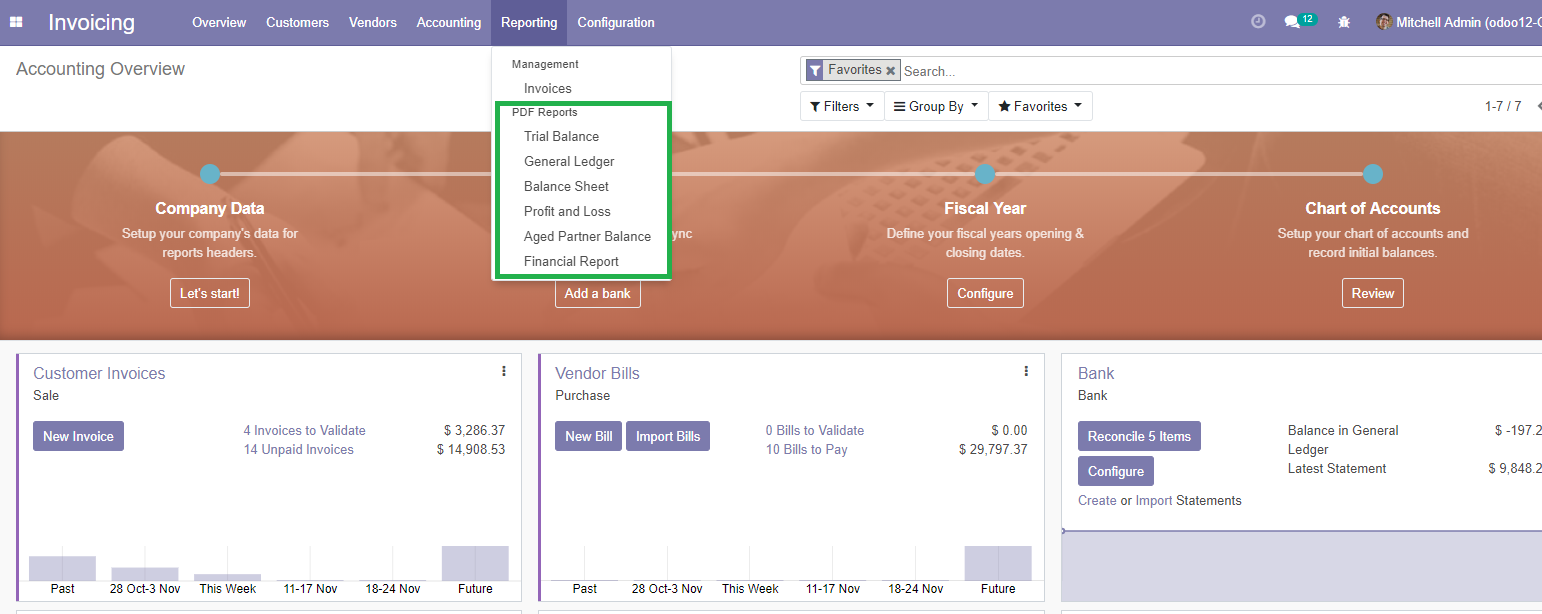
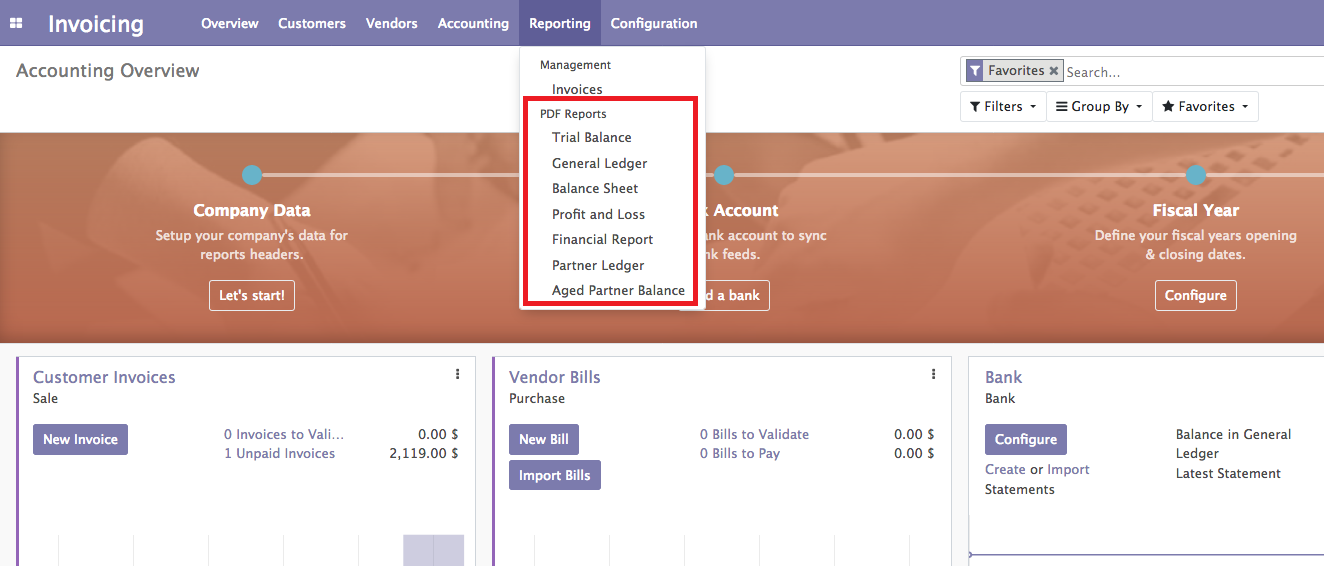
[OD12-731] Partner Ledger Report

diff --git a/skit_addons/skit_account_reports/static/description/index.html b/skit_addons/skit_account_reports/static/description/index.html
@@ -2,7 +2,7 @@
     <div class="oe_row oe_spaced">
         <h2 class="oe_slogan" style="color:#875A7B">Financial Reports in PDF</h2>
         <div style="margin-left:50px;margin-right:50px">
-        	<h3 class="oe_slogan" style="font-size: 1.3em; line-height: 2em; opacity:unset !important">This module helps to generate Financial reports such as Balance Sheet, Profit and Loss, Trial Balance, General Ledger and Aged Partner Balance in PDF format.</h3>
+        	<h3 class="oe_slogan" style="font-size: 1.3em; line-height: 2em; opacity:unset !important">This module helps to generate Financial reports such as Balance Sheet, Profit and Loss, Trial Balance, General Ledger, Partner Ledger and Aged Partner Balance in PDF format.</h3>
         </div>
     </div>
 </section>
@@ -73,6 +73,15 @@
         <div class="text-center">
             <img class="img-border img-responsive thumbnail oe_picture oe_gif" src="account_reports_10.png" /><br>
             <img class="img-border img-responsive thumbnail  oe_gif" style="border:1px solid grey" src="account_reports_11.png" />
+        </div>
+    </div>
+</section>
+<section class="oe_container">
+    <h2 class="oe_slogan" style="color:#875A7B">Partner Ledger</h2>
+    <div class="oe_row">    	
+        <div class="text-center">
+            <img class="img-border img-responsive thumbnail oe_picture oe_gif" src="account_reports_14.png" /><br>
+            <img class="img-border img-responsive thumbnail  oe_gif" style="border:1px solid grey" src="account_reports_15.png" />
         </div>
     </div>
 </section>

diff --git a/skit_addons/skit_account_reports/report/account_partner_ledger.py b/skit_addons/skit_account_reports/report/account_partner_ledger.py
@@ -1,0 +1,121 @@
+# -*- coding: utf-8 -*-
+
+from datetime import datetime
+import time
+from odoo import api, models, _
+from odoo.exceptions import UserError
+
+
+class ReportPartnerLedger(models.AbstractModel):
+    _name = 'report.skit_account_reports.report_partnerledger'
+
+    def _lines(self, data, partner):
+        full_account = []
+        currency = self.env['res.currency']
+        query_get_data = self.env['account.move.line'].with_context(data['form'].get('used_context', {}))._query_get()
+        reconcile_clause = "" if data['form']['reconciled'] else ' AND "account_move_line".reconciled = false '
+        params = [partner.id, tuple(data['computed']['move_state']), tuple(data['computed']['account_ids'])] + query_get_data[2]
+        query = """
+            SELECT "account_move_line".id, "account_move_line".date, j.code, acc.code as a_code, acc.name as a_name, "account_move_line".ref, m.name as move_name, "account_move_line".name, "account_move_line".debit, "account_move_line".credit, "account_move_line".amount_currency,"account_move_line".currency_id, c.symbol AS currency_code
+            FROM """ + query_get_data[0] + """
+            LEFT JOIN account_journal j ON ("account_move_line".journal_id = j.id)
+            LEFT JOIN account_account acc ON ("account_move_line".account_id = acc.id)
+            LEFT JOIN res_currency c ON ("account_move_line".currency_id=c.id)
+            LEFT JOIN account_move m ON (m.id="account_move_line".move_id)
+            WHERE "account_move_line".partner_id = %s
+                AND m.state IN %s
+                AND "account_move_line".account_id IN %s AND """ + query_get_data[1] + reconcile_clause + """
+                ORDER BY "account_move_line".date"""
+        self.env.cr.execute(query, tuple(params))
+        res = self.env.cr.dictfetchall()
+        sum = 0.0
+        lang_code = self.env.context.get('lang') or 'en_US'
+        lang = self.env['res.lang']
+        lang_id = lang._lang_get(lang_code)
+        date_format = lang_id.date_format
+        for r in res:
+            r['date'] = r['date'].strftime(date_format)
+            r['displayed_name'] = '-'.join(
+                r[field_name] for field_name in ('move_name', 'ref', 'name')
+                if r[field_name] not in (None, '', '/')
+            )
+            sum += r['debit'] - r['credit']
+            r['progress'] = sum
+            r['currency_id'] = currency.browse(r.get('currency_id'))
+            full_account.append(r)
+        return full_account
+
+    def _sum_partner(self, data, partner, field):
+        if field not in ['debit', 'credit', 'debit - credit']:
+            return
+        result = 0.0
+        query_get_data = self.env['account.move.line'].with_context(data['form'].get('used_context', {}))._query_get()
+        reconcile_clause = "" if data['form']['reconciled'] else ' AND "account_move_line".reconciled = false '
+
+        params = [partner.id, tuple(data['computed']['move_state']), tuple(data['computed']['account_ids'])] + query_get_data[2]
+        query = """SELECT sum(""" + field + """)
+                FROM """ + query_get_data[0] + """, account_move AS m
+                WHERE "account_move_line".partner_id = %s
+                    AND m.id = "account_move_line".move_id
+                    AND m.state IN %s
+                    AND account_id IN %s
+                    AND """ + query_get_data[1] + reconcile_clause
+        self.env.cr.execute(query, tuple(params))
+
+        contemp = self.env.cr.fetchone()
+        if contemp is not None:
+            result = contemp[0] or 0.0
+        return result
+
+    @api.model
+    def _get_report_values(self, docids, data=None):
+        if not data.get('form'):
+            raise UserError(_("Form content is missing, this report cannot be printed."))
+
+        data['computed'] = {}
+
+        obj_partner = self.env['res.partner']
+        query_get_data = self.env['account.move.line'].with_context(data['form'].get('used_context', {}))._query_get()
+        data['computed']['move_state'] = ['draft', 'posted']
+        if data['form'].get('target_move', 'all') == 'posted':
+            data['computed']['move_state'] = ['posted']
+        result_selection = data['form'].get('result_selection', 'customer')
+        if result_selection == 'supplier':
+            data['computed']['ACCOUNT_TYPE'] = ['payable']
+        elif result_selection == 'customer':
+            data['computed']['ACCOUNT_TYPE'] = ['receivable']
+        else:
+            data['computed']['ACCOUNT_TYPE'] = ['payable', 'receivable']
+
+        self.env.cr.execute("""
+            SELECT a.id
+            FROM account_account a
+            WHERE a.internal_type IN %s
+            AND NOT a.deprecated""", (tuple(data['computed']['ACCOUNT_TYPE']),))
+        data['computed']['account_ids'] = [a for (a,) in self.env.cr.fetchall()]
+        params = [tuple(data['computed']['move_state']), tuple(data['computed']['account_ids'])] + query_get_data[2]
+        reconcile_clause = "" if data['form']['reconciled'] else ' AND "account_move_line".reconciled = false '
+        query = """
+            SELECT DISTINCT "account_move_line".partner_id
+            FROM """ + query_get_data[0] + """, account_account AS account, account_move AS am
+            WHERE "account_move_line".partner_id IS NOT NULL
+                AND "account_move_line".account_id = account.id
+                AND am.id = "account_move_line".move_id
+                AND am.state IN %s
+                AND "account_move_line".account_id IN %s
+                AND NOT account.deprecated
+                AND """ + query_get_data[1] + reconcile_clause
+        self.env.cr.execute(query, tuple(params))
+        partner_ids = [res['partner_id'] for res in self.env.cr.dictfetchall()]
+        partners = obj_partner.browse(partner_ids)
+        partners = sorted(partners, key=lambda x: (x.ref, x.name))
+
+        return {
+            'doc_ids': partner_ids,
+            'doc_model': self.env['res.partner'],
+            'data': data,
+            'docs': partners,
+            'time': time,
+            'lines': self._lines,
+            'sum_partner': self._sum_partner,
+        }

diff --git a/skit_addons/skit_account_reports/__manifest__.py b/skit_addons/skit_account_reports/__manifest__.py
@@ -3,14 +3,14 @@
 {
     'name': 'Odoo12 Financial Reports in PDF',
     'version': '1.1',
-    'summary': 'This module helps to generate Financial reports Balance Sheet, Profit and Loss, Trial Balance, General Ledger and Aged Partner Balance in PDF format',
+    'summary': 'This module helps to generate Financial reports Balance Sheet, Profit and Loss, Trial Balance, General Ledger, Partner Ledger and Aged Partner Balance in PDF format',
     'author': 'Srikesh Infotech',
     'license': "AGPL-3",
     'website': 'http://www.srikeshinfotech.com',
     'price': 75,
     'currency': 'EUR',
     'description': """
-        This module helps to generate Financial reports Balance Sheet, Profit and Loss, Trial Balance, General Ledger and Aged Partner Balance in PDF format
+        This module helps to generate Financial reports Balance Sheet, Profit and Loss, Trial Balance, General Ledger, Partner Ledger and Aged Partner Balance in PDF format
         """,
     'images': ['images/main_screenshot.png'],
     'category': "Invoicing Management",
@@ -26,7 +26,8 @@
         'views/report_financial.xml',
         'wizard/account_report_aged_partner_balance_view.xml',        
         'views/report_agedpartnerbalance.xml',
-        
+        'wizard/account_report_partner_ledger_view.xml',        
+        'views/report_partnerledger.xml',
     ],
     'installable': True,    
     'auto_install': False,

diff --git a/skit_addons/skit_account_reports/wizard/account_report_partner_ledger.py b/skit_addons/skit_account_reports/wizard/account_report_partner_ledger.py
@@ -1,0 +1,19 @@
+# -*- coding: utf-8 -*-
+
+from odoo import fields, models, _
+from odoo.exceptions import UserError
+
+
+class AccountPartnerLedger(models.TransientModel):
+    _inherit = "account.common.partner.report"
+    _name = "account.report.partner.ledger"
+    _description = "Account Partner Ledger"
+
+    amount_currency = fields.Boolean("With Currency", help="It adds the currency column on report if the currency differs from the company currency.")
+    reconciled = fields.Boolean('Reconciled Entries')
+
+    def _print_report(self, data):
+        data = self.pre_print_report(data)
+        data['form'].update({'reconciled': self.reconciled, 'amount_currency': self.amount_currency})
+        return self.env.ref('skit_account_reports.action_report_partnerledger').with_context(landscape=True).report_action(self, data=data)
+       

diff --git a/skit_addons/skit_account_reports/wizard/__init__.py b/skit_addons/skit_account_reports/wizard/__init__.py
@@ -5,3 +5,4 @@ from . import account_report_trial_balance
 from . import account_report_general_ledger
 from . import account_report_common_partner
 from . import account_report_aged_partner_balance
+from . import account_report_partner_ledger

diff --git a/skit_addons/skit_account_reports/report/__init__.py b/skit_addons/skit_account_reports/report/__init__.py
@@ -3,3 +3,4 @@ from . import account_report_financial
 from . import account_balance
 from . import account_general_ledger
 from . import account_aged_partner_balance
+from . import account_partner_ledger
